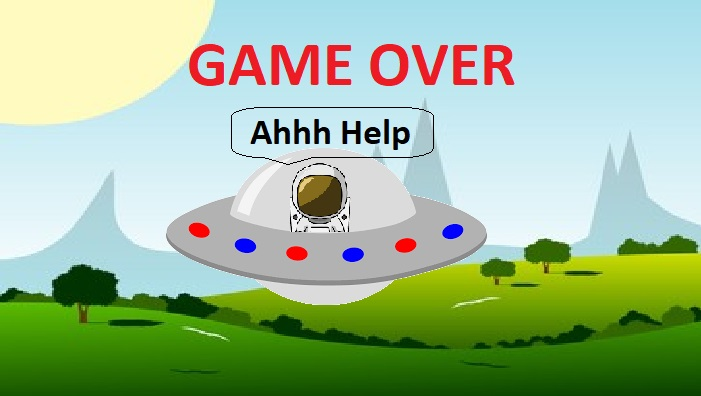
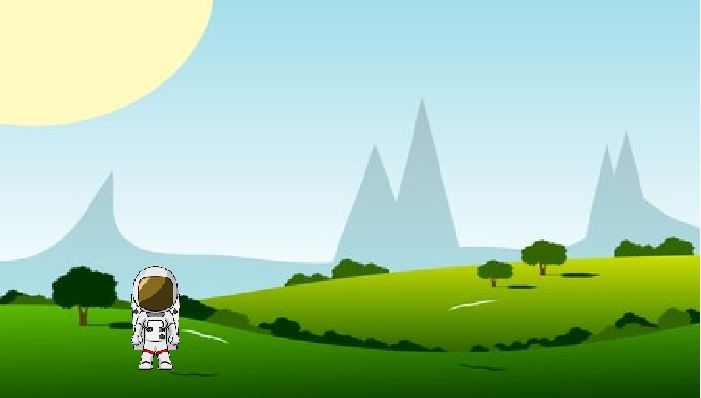
add rest of images

diff --git a/assets/js/script.js b/assets/js/script.js
@@ -77,7 +77,7 @@ function handleGuess(chosenLetter) {
       mistakes++;
       addToMistakes();
       gameOver();
-      updateHangmanPicture();
+      updateImage();
     }
 }
 
@@ -90,11 +90,15 @@ function gameWon(){
 function gameOver() {
     if (mistakes === maxWrongGuesses){
        document.getElementById('random-word').innerHTML = `You lost!! The answer was ${wordChoice}. Try again!!`;
-       document.getElementById('main-image').src =`assets/images/alien-0.jpg`;
+       document.getElementById('main-image').src =`assets/images/alien-8.jpg`;
     }
 }
 function addToMistakes(){
     document.getElementById("mistakes").innerHTML = mistakes;
+}
+
+function updateImage(){
+    document.getElementById('main-image').src = `assets/images/alien-` + mistakes + `.jpg`;
 }
 function reset(){
     location.reload()
